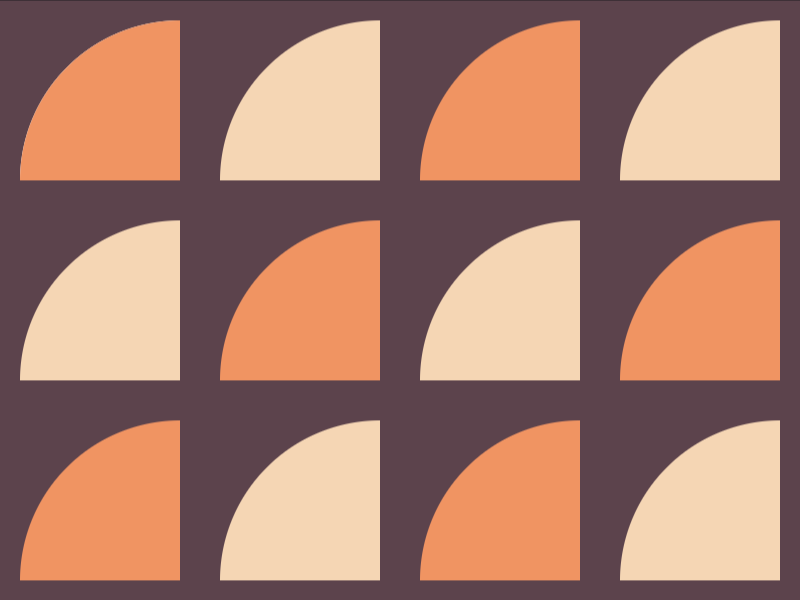
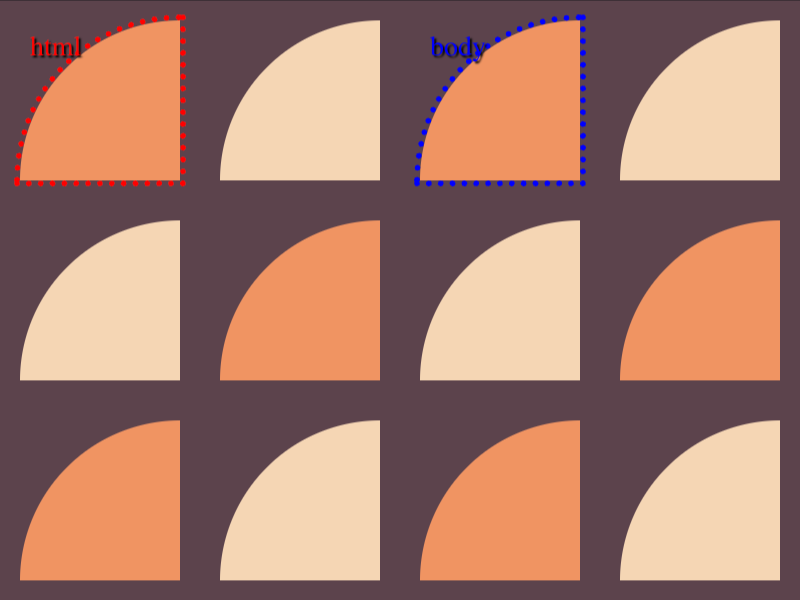
Score: 658.89, Characters: 201 (100.00% match) - CSSHub

diff --git a/Battles/Battle #2/#18. Matrix/README.md b/Battles/Battle #2/#18. Matrix/README.md
@@ -22,30 +22,29 @@ Challenge: <https://cssbattle.dev/play/18>
 ## Code
 
 ```html
-<style>*{margin:10 310 210 10;border-radius:9in 0 0;color:F09462;box-shadow:inset 1in 0,50vw 0,var(--a,0 0),25vw 25vw,75vw 25vw,0 50vw,50vw 50vw var(--b,,0 0 0 9in#5C434C);*{--b:;--a:-25vw 25vw;margin:0-100 0 100;color:F5D6B4
+<style>&{background:#5C434C}*{margin:10 310 210 10;border-radius:9in 0 0;color:F09462;box-shadow:inset 1in 0,25vw 0#F5D6B4,0 25vw#F5D6B4,25vw 25vw,0 50vw,25vw 50vw#F5D6B4 var(--b,);*{margin:0-200 0 200
 ```
 
 ## Prettified code
 
 ```html
 <style>
+& {
+  background: #5c434c;
+}
 * {
   margin: 10 310 210 10;
   border-radius: 9in 0 0;
   color: F09462;
   box-shadow:
     inset 1in 0,
-    50vw 0,
-    var(--a, 0 0),
+    25vw 0 #f5d6b4,
+    0 25vw #f5d6b4,
     25vw 25vw,
-    75vw 25vw,
     0 50vw,
-    50vw 50vw var(--b, , 0 0 0 9in #5c434c);
+    25vw 50vw #f5d6b4 var(--b,);
   * {
-    --b:;
-    --a: -25vw 25vw;
-    margin: 0 -100 0 100;
-    color: F5D6B4;
+    margin: 0 -200 0 200;
   }
 }
 

diff --git a/README.md b/README.md
@@ -26,7 +26,7 @@ Note - I have not yet complete all the challenges.
 <li><a href="./Battles/Battle%20%232/%2315.%20Overlap/">#15. Overlap</a> (109 Characters)</li>
 <li><a href="./Battles/Battle%20%232/%2316.%20Eye%20of%20the%20Tiger/">#16. Eye of the Tiger</a> (153 Characters)</li>
 <li><a href="./Battles/Battle%20%232/%2317.%20Fidget%20Spinner/">#17. Fidget Spinner</a> (214 Characters)</li>
-<li><a href="./Battles/Battle%20%232/%2318.%20Matrix/">#18. Matrix</a> (225 Characters)</li>
+<li><a href="./Battles/Battle%20%232/%2318.%20Matrix/">#18. Matrix</a> (201 Characters)</li>
 </ul>
 </details>
 </li>
